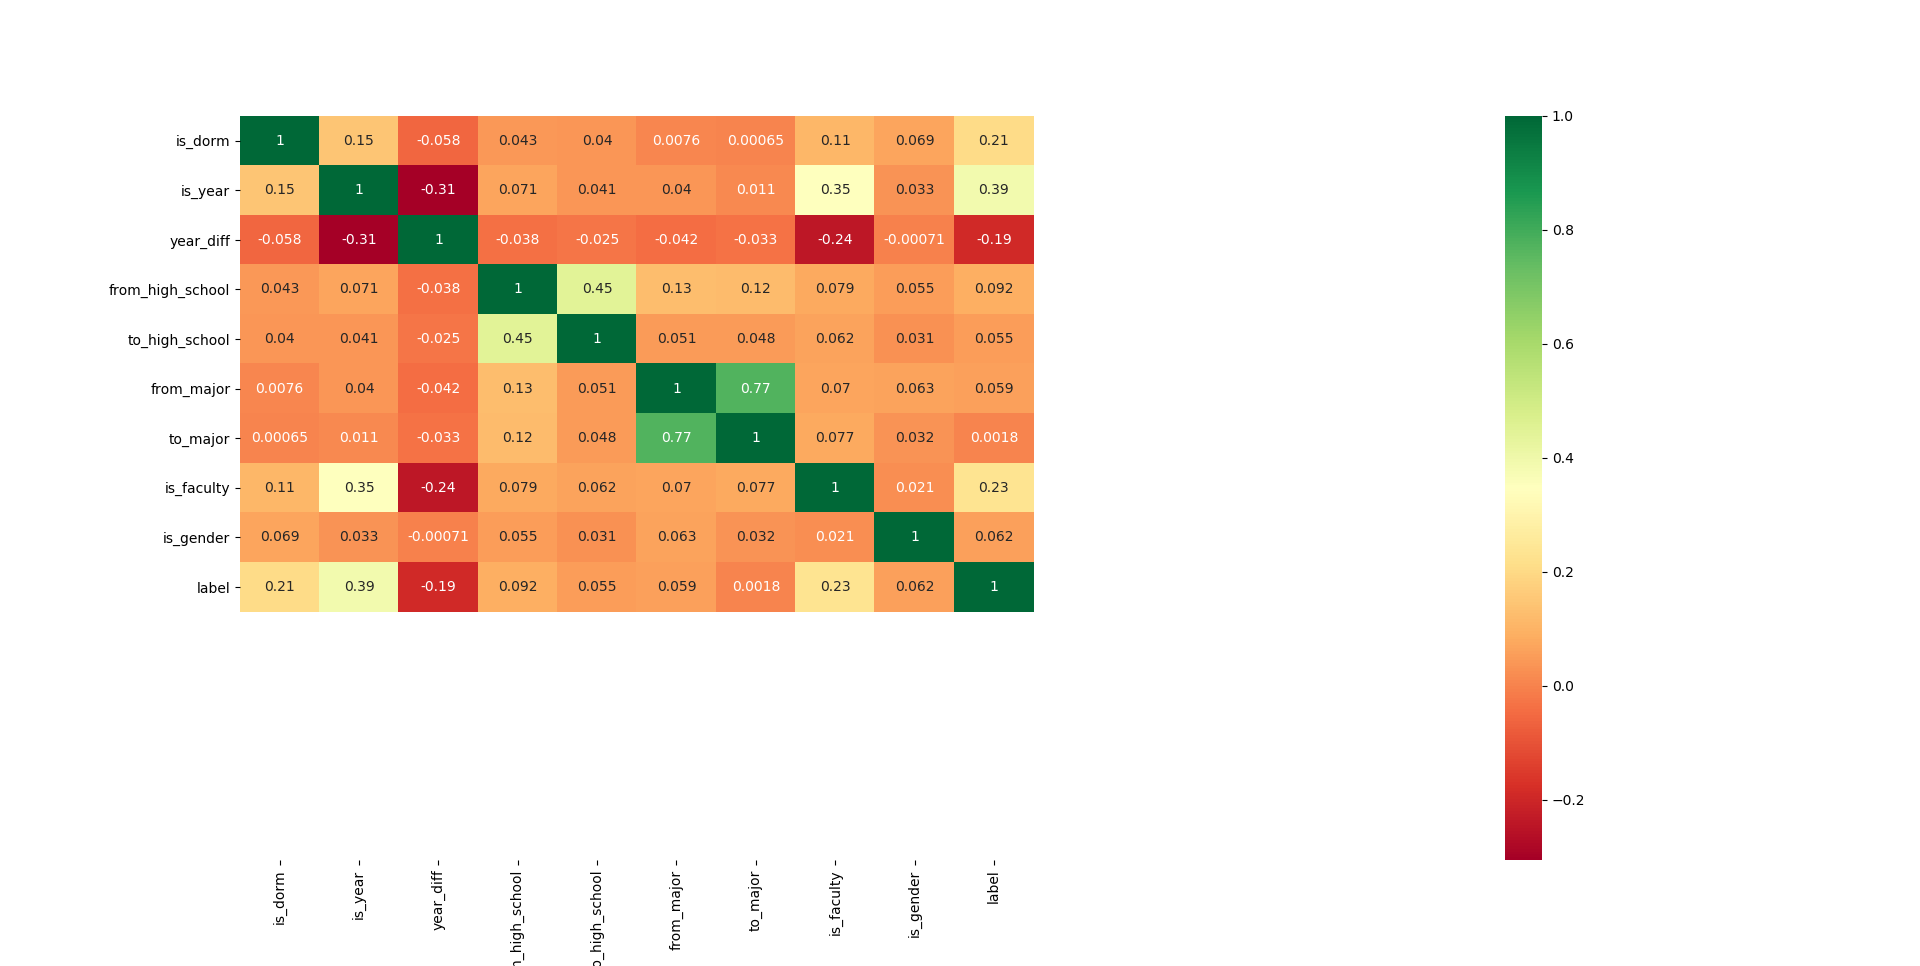
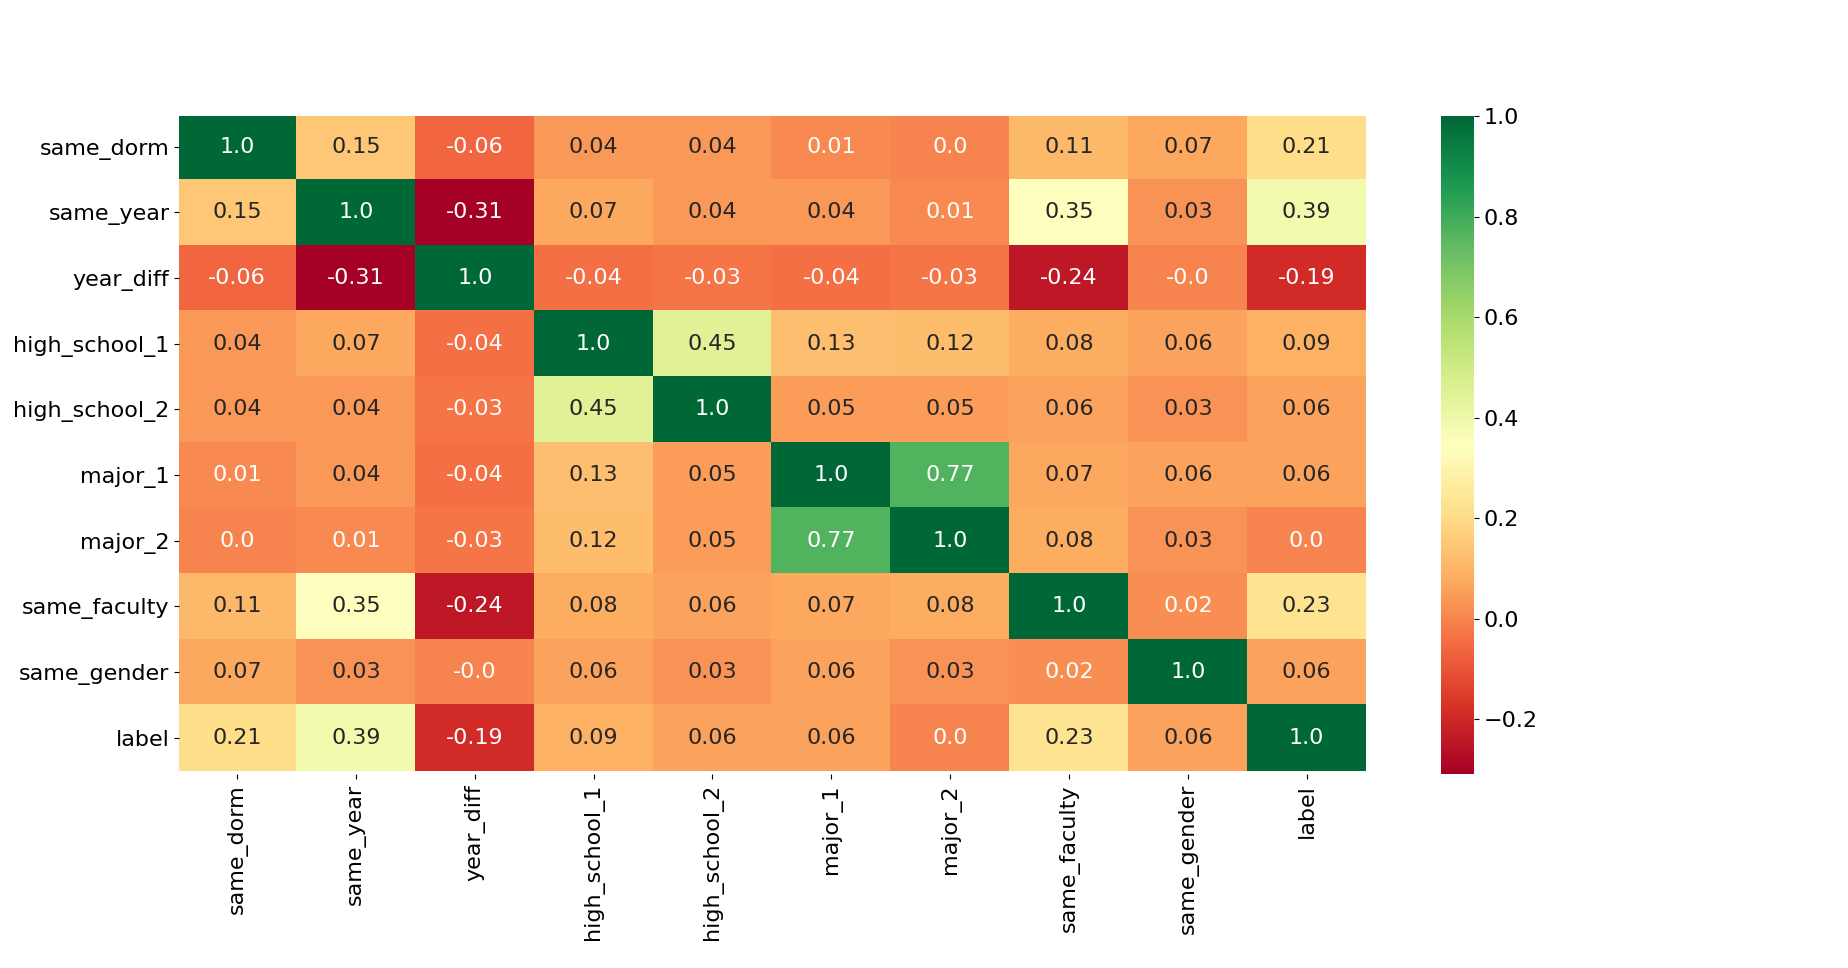
Rename some node-based features

diff --git a/feature-selection/feature_selection.py b/feature-selection/feature_selection.py
@@ -16,7 +16,19 @@ def read_data(file_name):
 	
 	# Read and rescale train data	
 	data = pd.read_table("../data/" + file_name + "_train.data")
+
+
+#######################################################################################################
+
+	# Rename features as requested by the reviewer
+	rename_cols = {"is_dorm": "same_dorm", "is_year": "same_year", "from_high_school": "high_school_1",
+			  "to_high_school": "high_school_2", "from_major": "major_1", "to_major": "major_2",
+			  "is_faculty": "same_faculty", "is_gender": "same_gender"}
+
+	data.rename(columns=rename_cols, inplace=True)
+#######################################################################################################
 	
+
 	# Shuffle data
 	data = shuffle(data)
 	train_data = data
@@ -57,8 +69,8 @@ def write_data(file_name, columns):
 
 
 
-X_train, X_test, y_train, y_test, features, data = read_data("baseline")
-#X_train, X_test, y_train, y_test, features, data = read_data("topological")
+#X_train, X_test, y_train, y_test, features, data = read_data("baseline")
+X_train, X_test, y_train, y_test, features, data = read_data("topological")
 #X_train, X_test, y_train, y_test, features, data = read_data("node2vec")
 #X_train, X_test, y_train, y_test, features, data = read_data("node_based")
 
@@ -80,13 +92,13 @@ print(selected_features)
 
 
 
-
 # Plot accuracy 
 plt.figure()
 plt.xlabel("Number of features selected")
 plt.ylabel("Cross validation score (nb of correct classifications)")
 plt.plot(range(1, len(rfecv.grid_scores_) + 1), rfecv.grid_scores_)
 plt.show()
+
 
 
 
